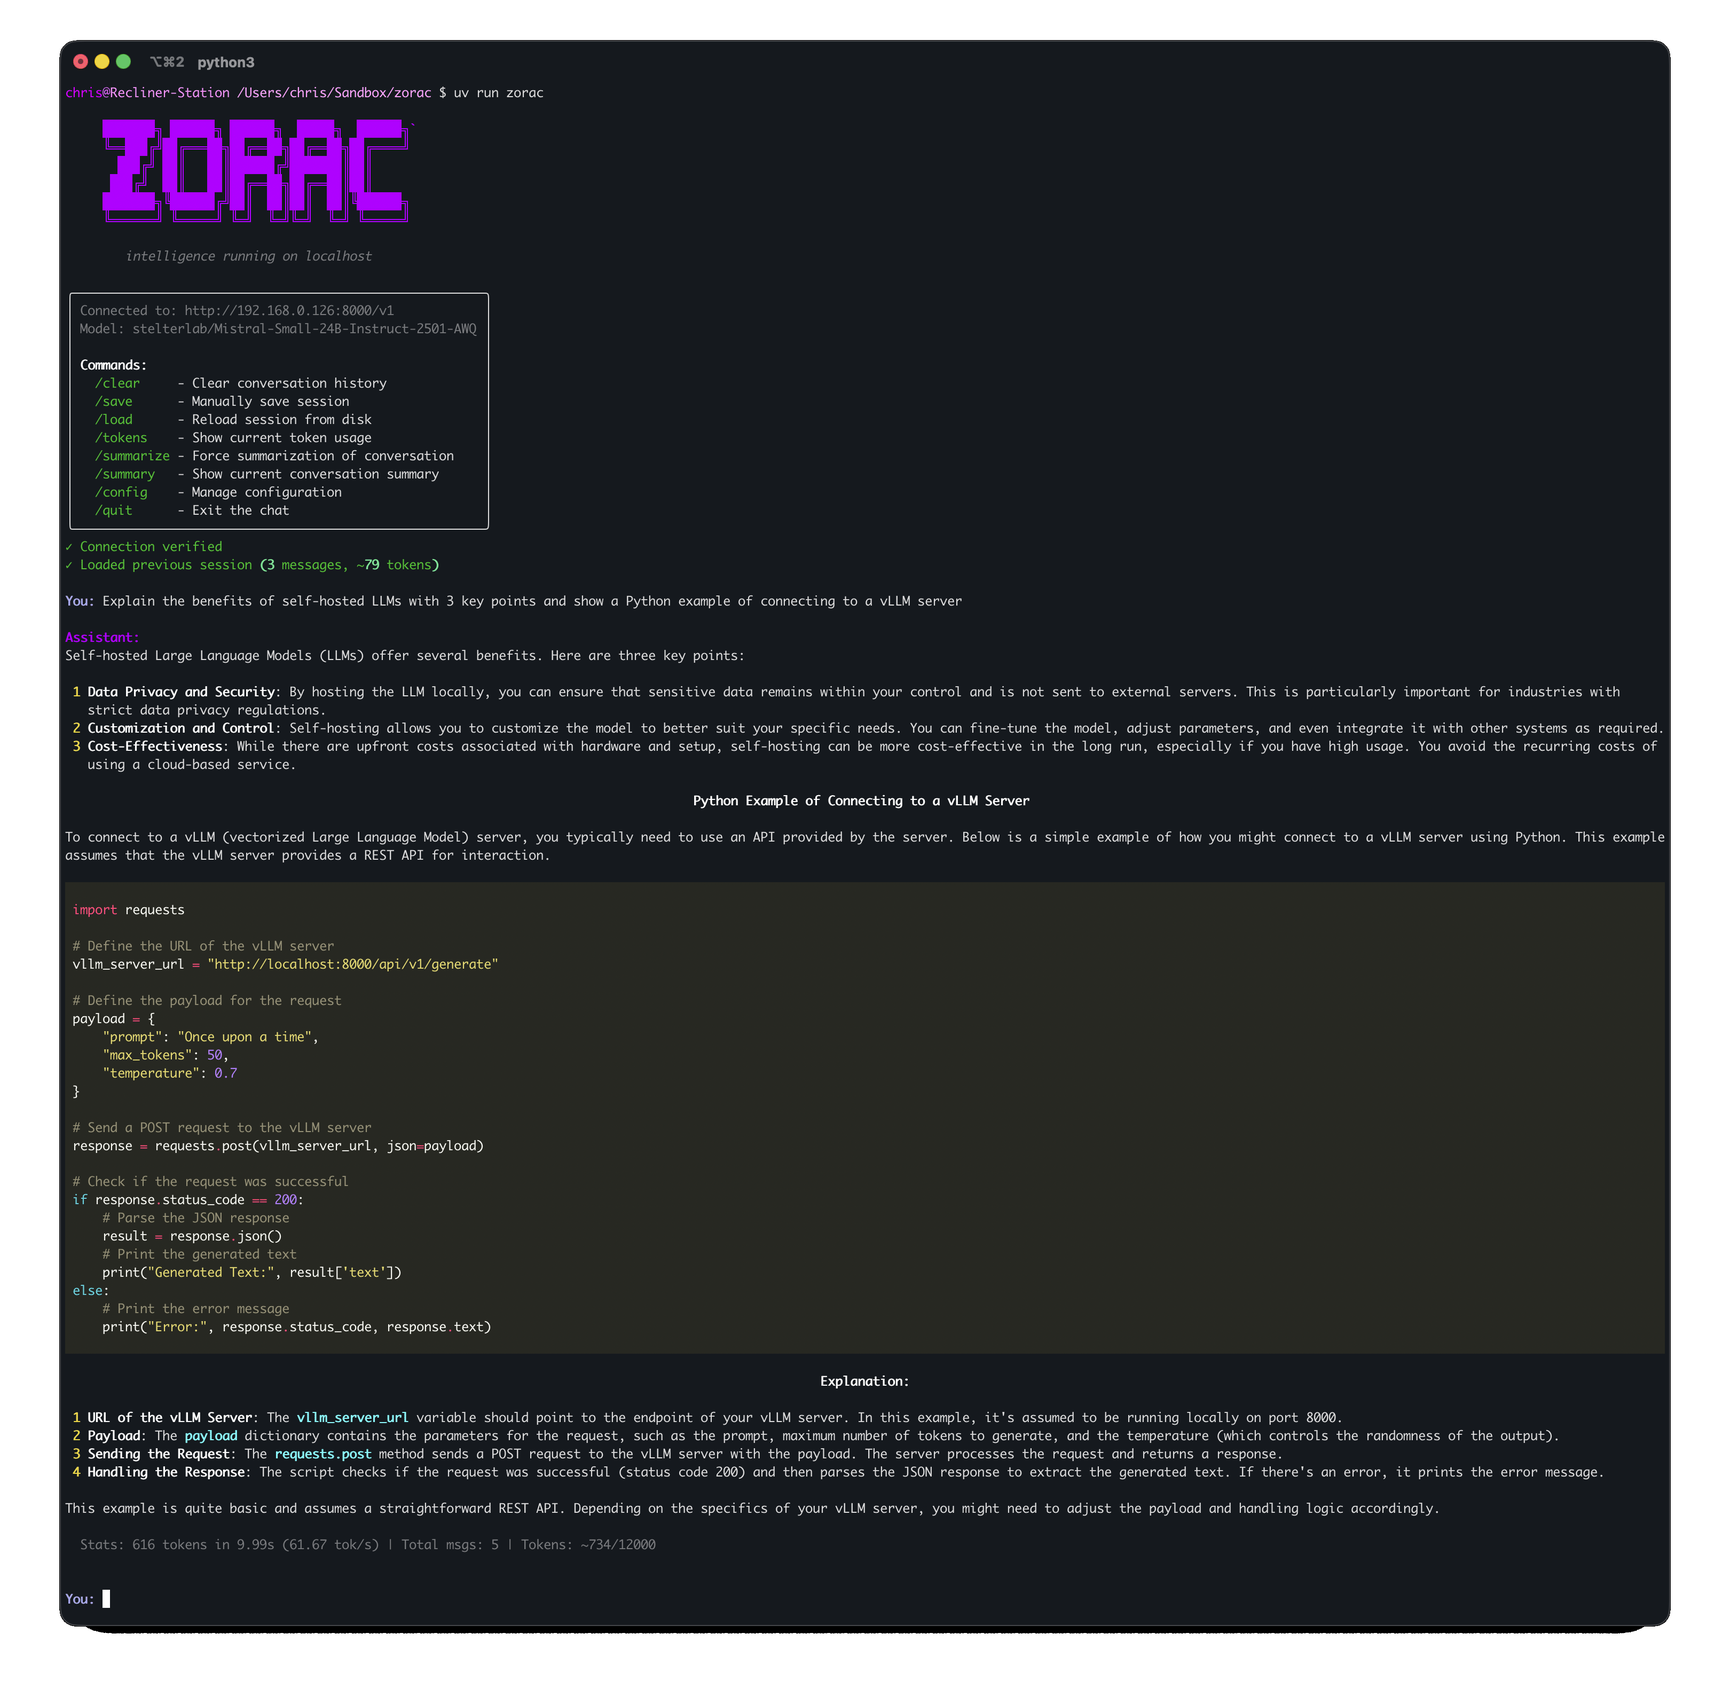
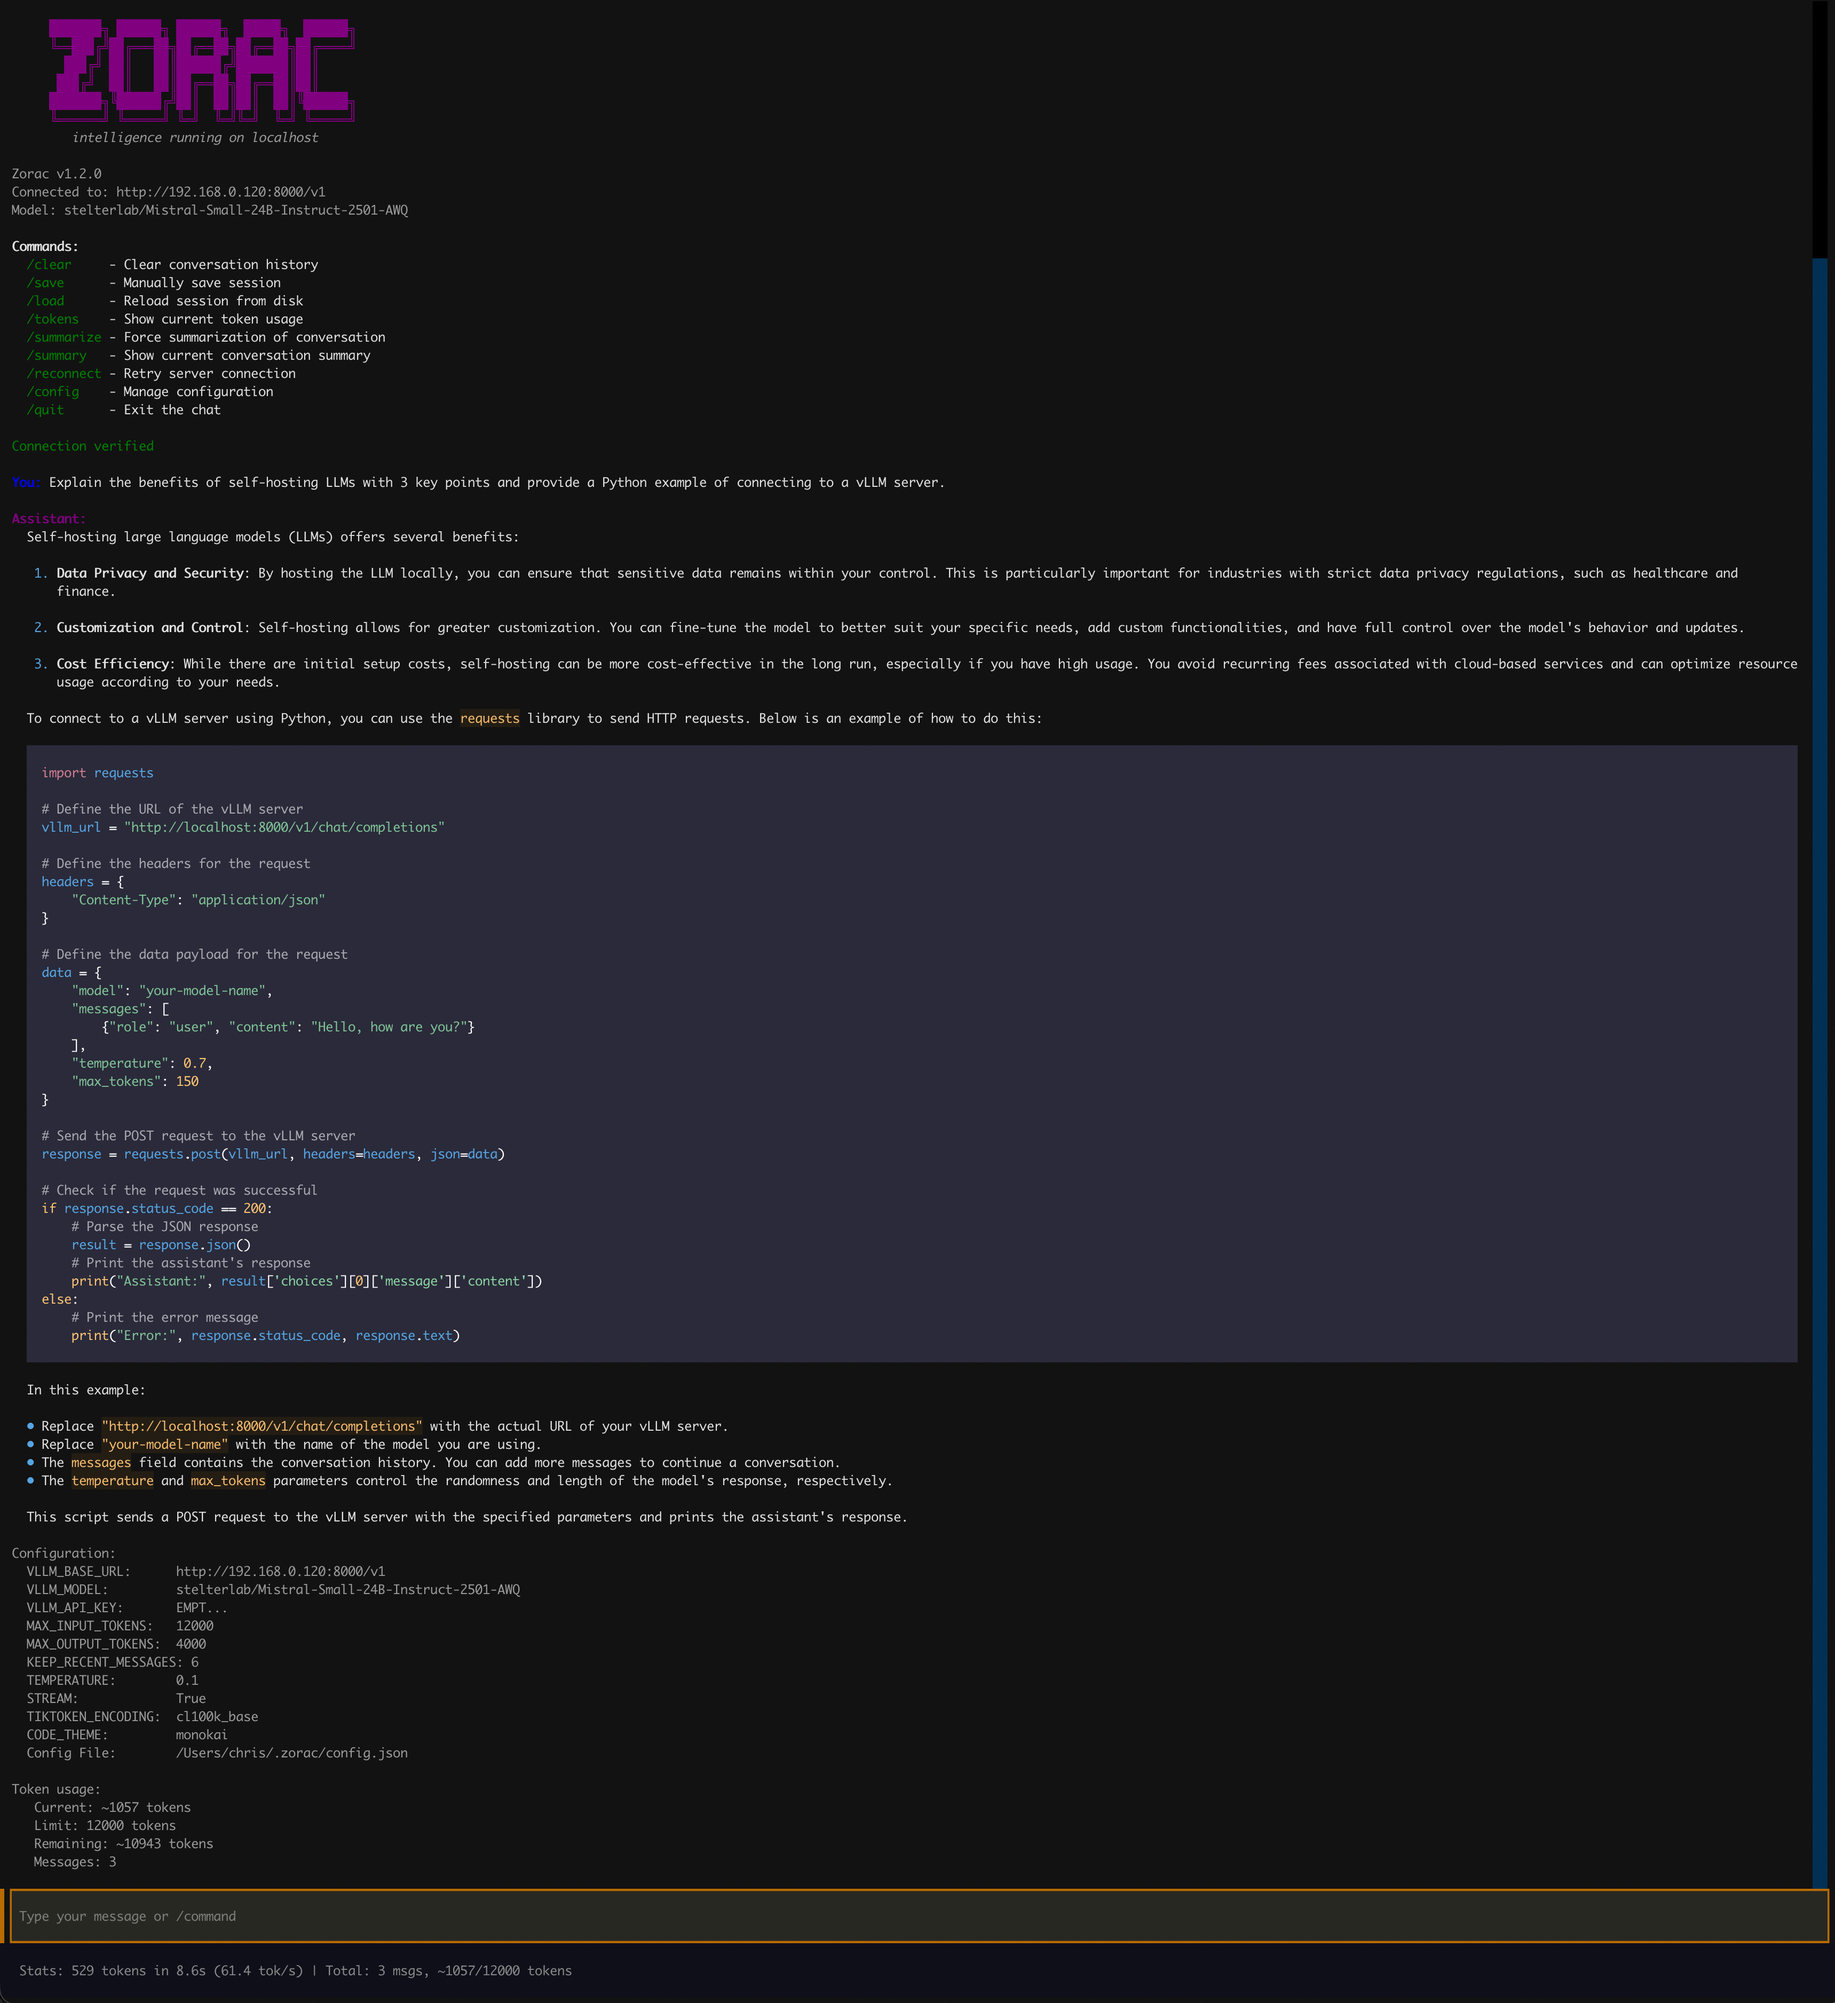
refactor: Remove token management section and update screenshot

diff --git a/README.md b/README.md
@@ -72,12 +72,6 @@ That's it. Your conversation is automatically saved and restored between session
 
 ![Zorac Chat Interface](screenshots/zorac-screenshot-1.png)
 
-### Token Management & Commands
-
-*Built-in commands for session management and token tracking*
-
-![Token Usage and Commands](screenshots/zorac-screenshot-2.png)
-
 ## Features
 
 - **Rich Terminal UI** — Markdown rendering, syntax-highlighted code blocks (configurable theme), left-aligned 60% width layout
